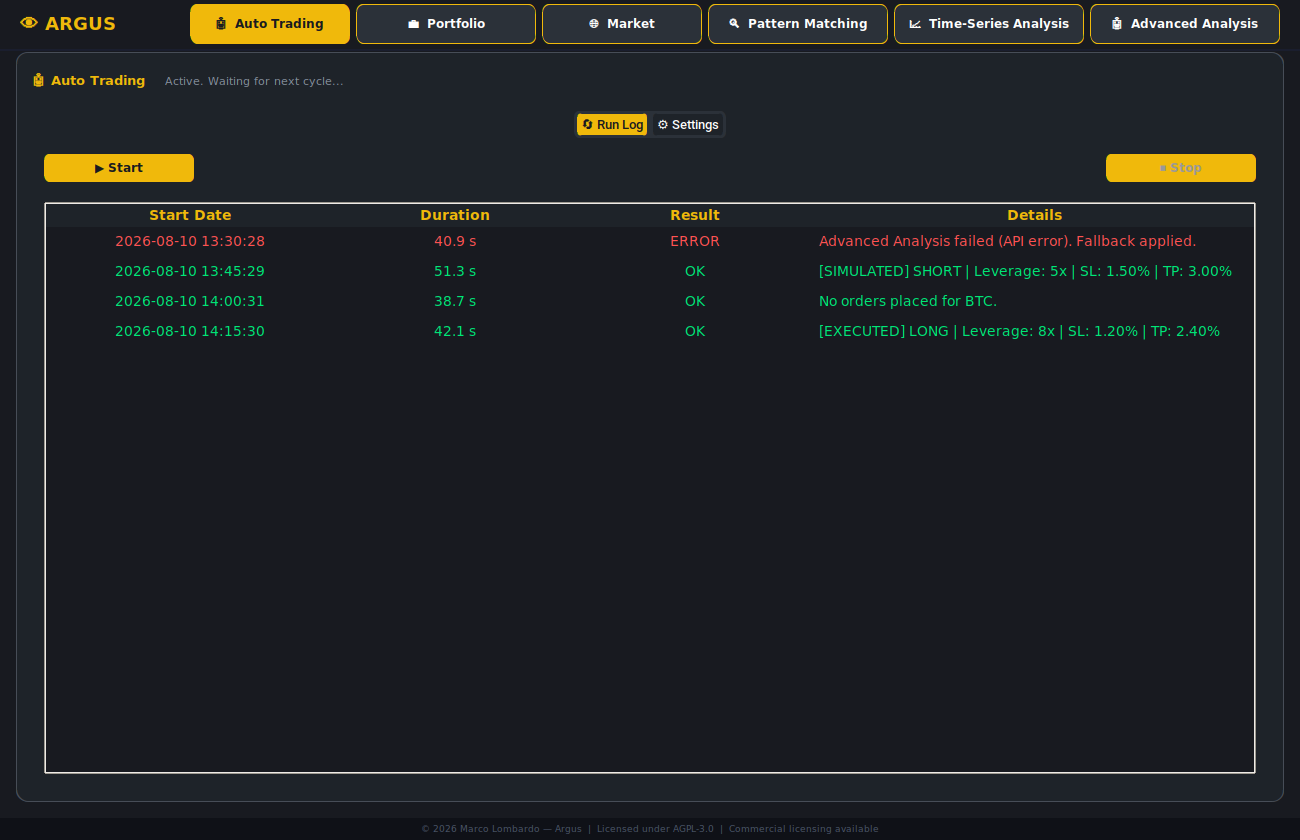
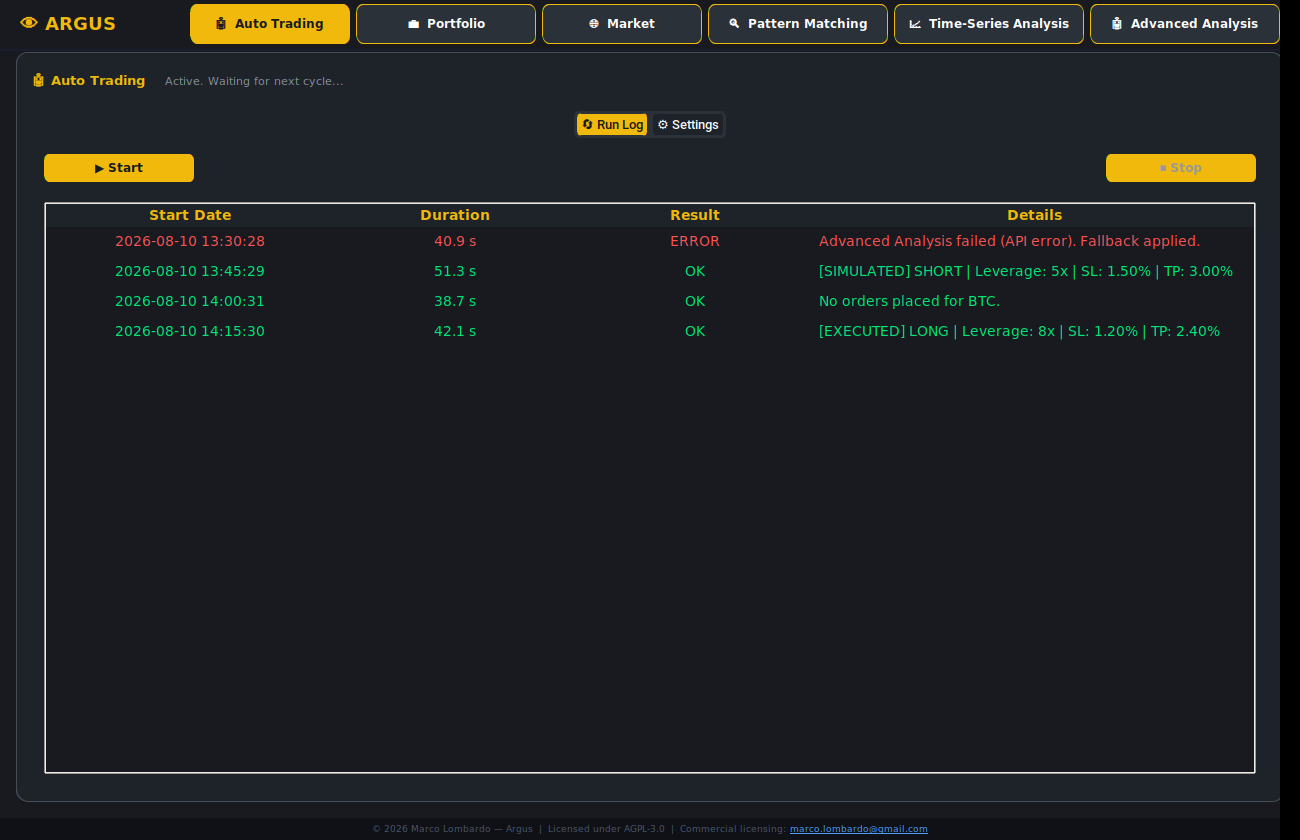
Make the footer address clickable, following the Iris pattern
The footer showed the licensing address as plain grey text, which reads
as decoration: nothing signalled that it could be acted on, and on a
desktop app there is no obvious way to act on it anyway.

Mirrors the Iris implementation: the copyright line and the address are
now two labels in a centred frame, with the address underlined, in link
blue and carrying a hand cursor. Clicking it opens the mail client on a
mailto with the subject pre-filled, so enquiries arrive already
labelled. A missing or unconfigured mail client is swallowed rather than
raising a dialog - the address is on screen and readable either way,
which is the fallback that matters.

Adds core/version.py holding APP_NAME, APP_TITLE and CONTACT_EMAIL, so
the address has one definition in code. Changing it later - moving to a
role address on an owned domain, for instance - is a one-line edit
rather than a hunt through the GUI.

Regenerated the six README screenshots, which still showed the previous
footer.

Four new GUI smoke tests cover the address being displayed, the hand
cursor that makes it discoverable, the mailto being opened on click, and
a failing mail client not crashing the app. Full suite: 69 passed
(54 unit + 15 GUI under Xvfb).

Claude-Session: https://claude.ai/code/session_01XnoCRuQbXjfkZ4Y4eRFT9n

Changed region(s): [[0.9846, 0.0, 1.0, 0.9905], [0.6462, 0.2786, 0.9538, 0.3714], [0.3077, 0.9595, 0.7077, 1.0]]

diff --git a/gui/app.py b/gui/app.py
@@ -16,9 +16,13 @@ Layout:
 import threading
 import queue
 import time
+import webbrowser
 from datetime import datetime
+from urllib.parse import quote
 import customtkinter as ctk
 from tkinter import messagebox
+
+from core.version import APP_TITLE, CONTACT_EMAIL
 
 from core.data_manager import (
     load_settings, save_settings,
@@ -182,16 +186,43 @@ class ArgusApp(ctk.CTk):
         footer.grid_columnconfigure(0, weight=1)
         footer.grid_rowconfigure(0, weight=1)
 
-        ctk.CTkLabel(
-            footer,
+        # Chi sta usando l'applicazione è esattamente la persona che potrebbe
+        # dover comprare una licenza commerciale: l'indirizzo è scritto per
+        # esteso e cliccabile, invece di un generico "available on request".
+        # Un frame interno senza sticky resta centrato nella cella.
+        center = ctk.CTkFrame(footer, fg_color="transparent")
+        center.grid(row=0, column=0, padx=20)
+
+        self._footer_label = ctk.CTkLabel(
+            center,
             text=(
                 "© 2026 Marco Lombardo — Argus  |  Licensed under AGPL-3.0  |  "
-                "Commercial licensing: marco.lombardo@gmail.com"
+                "Commercial licensing:"
             ),
             font=ctk.CTkFont(family="Segoe UI", size=9),
             text_color=("#4a5568", "#4a5568"),
-            anchor="center",
-        ).grid(row=0, column=0, sticky="ew", padx=20)
+        )
+        self._footer_label.pack(side="left")
+
+        self._footer_email = ctk.CTkLabel(
+            center,
+            text=CONTACT_EMAIL,
+            font=ctk.CTkFont(family="Segoe UI", size=9, underline=True),
+            text_color=("#4a9eff", "#4a9eff"),
+            cursor="hand2",
+        )
+        self._footer_email.pack(side="left", padx=(4, 0))
+        self._footer_email.bind("<Button-1>", self.open_licensing_email)
+
+    def open_licensing_email(self, event=None):
+        """Apre il client di posta su una richiesta di licenza commerciale."""
+        subject = quote(f"{APP_TITLE} — commercial licence enquiry")
+        try:
+            webbrowser.open(f"mailto:{CONTACT_EMAIL}?subject={subject}")
+        except Exception:
+            # Nessun client di posta configurato: l'indirizzo resta comunque
+            # leggibile a schermo, quindi non vale un dialog di errore.
+            pass
 
     # ─────────────────────────────────────────────────────────────
     # Topbar — Logo + Status + Navigazione

diff --git a/tests/test_gui_smoke.py b/tests/test_gui_smoke.py
@@ -221,5 +221,52 @@ def test_auto_trading_scheduler_survives_the_weekend_branch(app):
     panel.settings["auto_trading"]["run_weekend"] = True
 
 
+# ─────────────────────────────────────────────────────────────
+# Commercial licensing contact
+# ─────────────────────────────────────────────────────────────
+
+def test_the_footer_shows_the_licensing_address(app):
+    """The person running the app is the one who may need to buy a licence, so
+    the address is spelled out rather than promised 'on request'."""
+    from core.version import CONTACT_EMAIL
+
+    assert app._footer_email.cget("text") == CONTACT_EMAIL
+    assert "AGPL-3.0" in app._footer_label.cget("text")
+
+
+def test_the_address_looks_clickable(app):
+    """A bare label that happens to react to clicks is undiscoverable: the hand
+    cursor is what tells the user it can be clicked at all."""
+    assert app._footer_email.cget("cursor") == "hand2"
+
+
+def test_clicking_the_address_opens_the_mail_client(app, monkeypatch):
+    from gui import app as app_mod
+    from core.version import CONTACT_EMAIL
+
+    opened = []
+    monkeypatch.setattr(app_mod.webbrowser, "open", opened.append)
+
+    app.open_licensing_email()
+
+    assert len(opened) == 1
+    assert opened[0].startswith(f"mailto:{CONTACT_EMAIL}?subject=")
+
+
+def test_a_missing_mail_client_does_not_crash(app, monkeypatch):
+    """No mail client configured is a normal state on a headless or locked-down
+    box; the address stays readable on screen, so it must not raise."""
+    from gui import app as app_mod
+
+    def explode(url):
+        raise OSError("no mail client")
+
+    monkeypatch.setattr(app_mod.webbrowser, "open", explode)
+
+    app.open_licensing_email()
+
+    assert app.winfo_exists()
+
+
 if __name__ == "__main__":
     raise SystemExit(pytest.main([__file__, "-q"]))

diff --git a/core/version.py b/core/version.py
@@ -1,0 +1,19 @@
+"""
+version.py — Argus
+
+Single source of truth for the application's identity and its commercial
+contact address.
+
+CONTACT_EMAIL lives here rather than being spelled out at each call site so
+that changing it — moving from a personal address to a role address on an
+owned domain, say — is a one-line edit in the code, not a hunt through the
+GUI. The Markdown documents carry their own copies by necessity; the code
+does not have to.
+"""
+
+APP_NAME = "Argus"
+APP_TITLE = "Argus — Advanced Market Forecast & AI Analysis"
+
+# Commercial licensing, quotes, OEM and enterprise enquiries. Email is the
+# only commercial channel — see LICENSING.md.
+CONTACT_EMAIL = "marco.lombardo@gmail.com"

diff --git a/CHANGELOG.md b/CHANGELOG.md
@@ -39,7 +39,10 @@ The format is based on [Keep a Changelog](https://keepachangelog.com/en/1.1.0/).
   - `CLA.md`: contact was "via the repository's GitHub Issues" — wrong for a
     binding agreement, and unusable for a Corporate CLA;
   - app footer: advertised "Commercial licensing available" with no way to act
-    on it; it now carries the address.
+    on it. It now shows the address in full, underlined and in link blue with a
+    hand cursor, and clicking it opens the mail client on a pre-filled
+    enquiry (same pattern as Iris). A missing mail client is swallowed — the
+    address stays readable on screen either way.
   - `LICENSING.md`: the quote request now lists what to include, so a quote
     takes one round rather than three.
 
